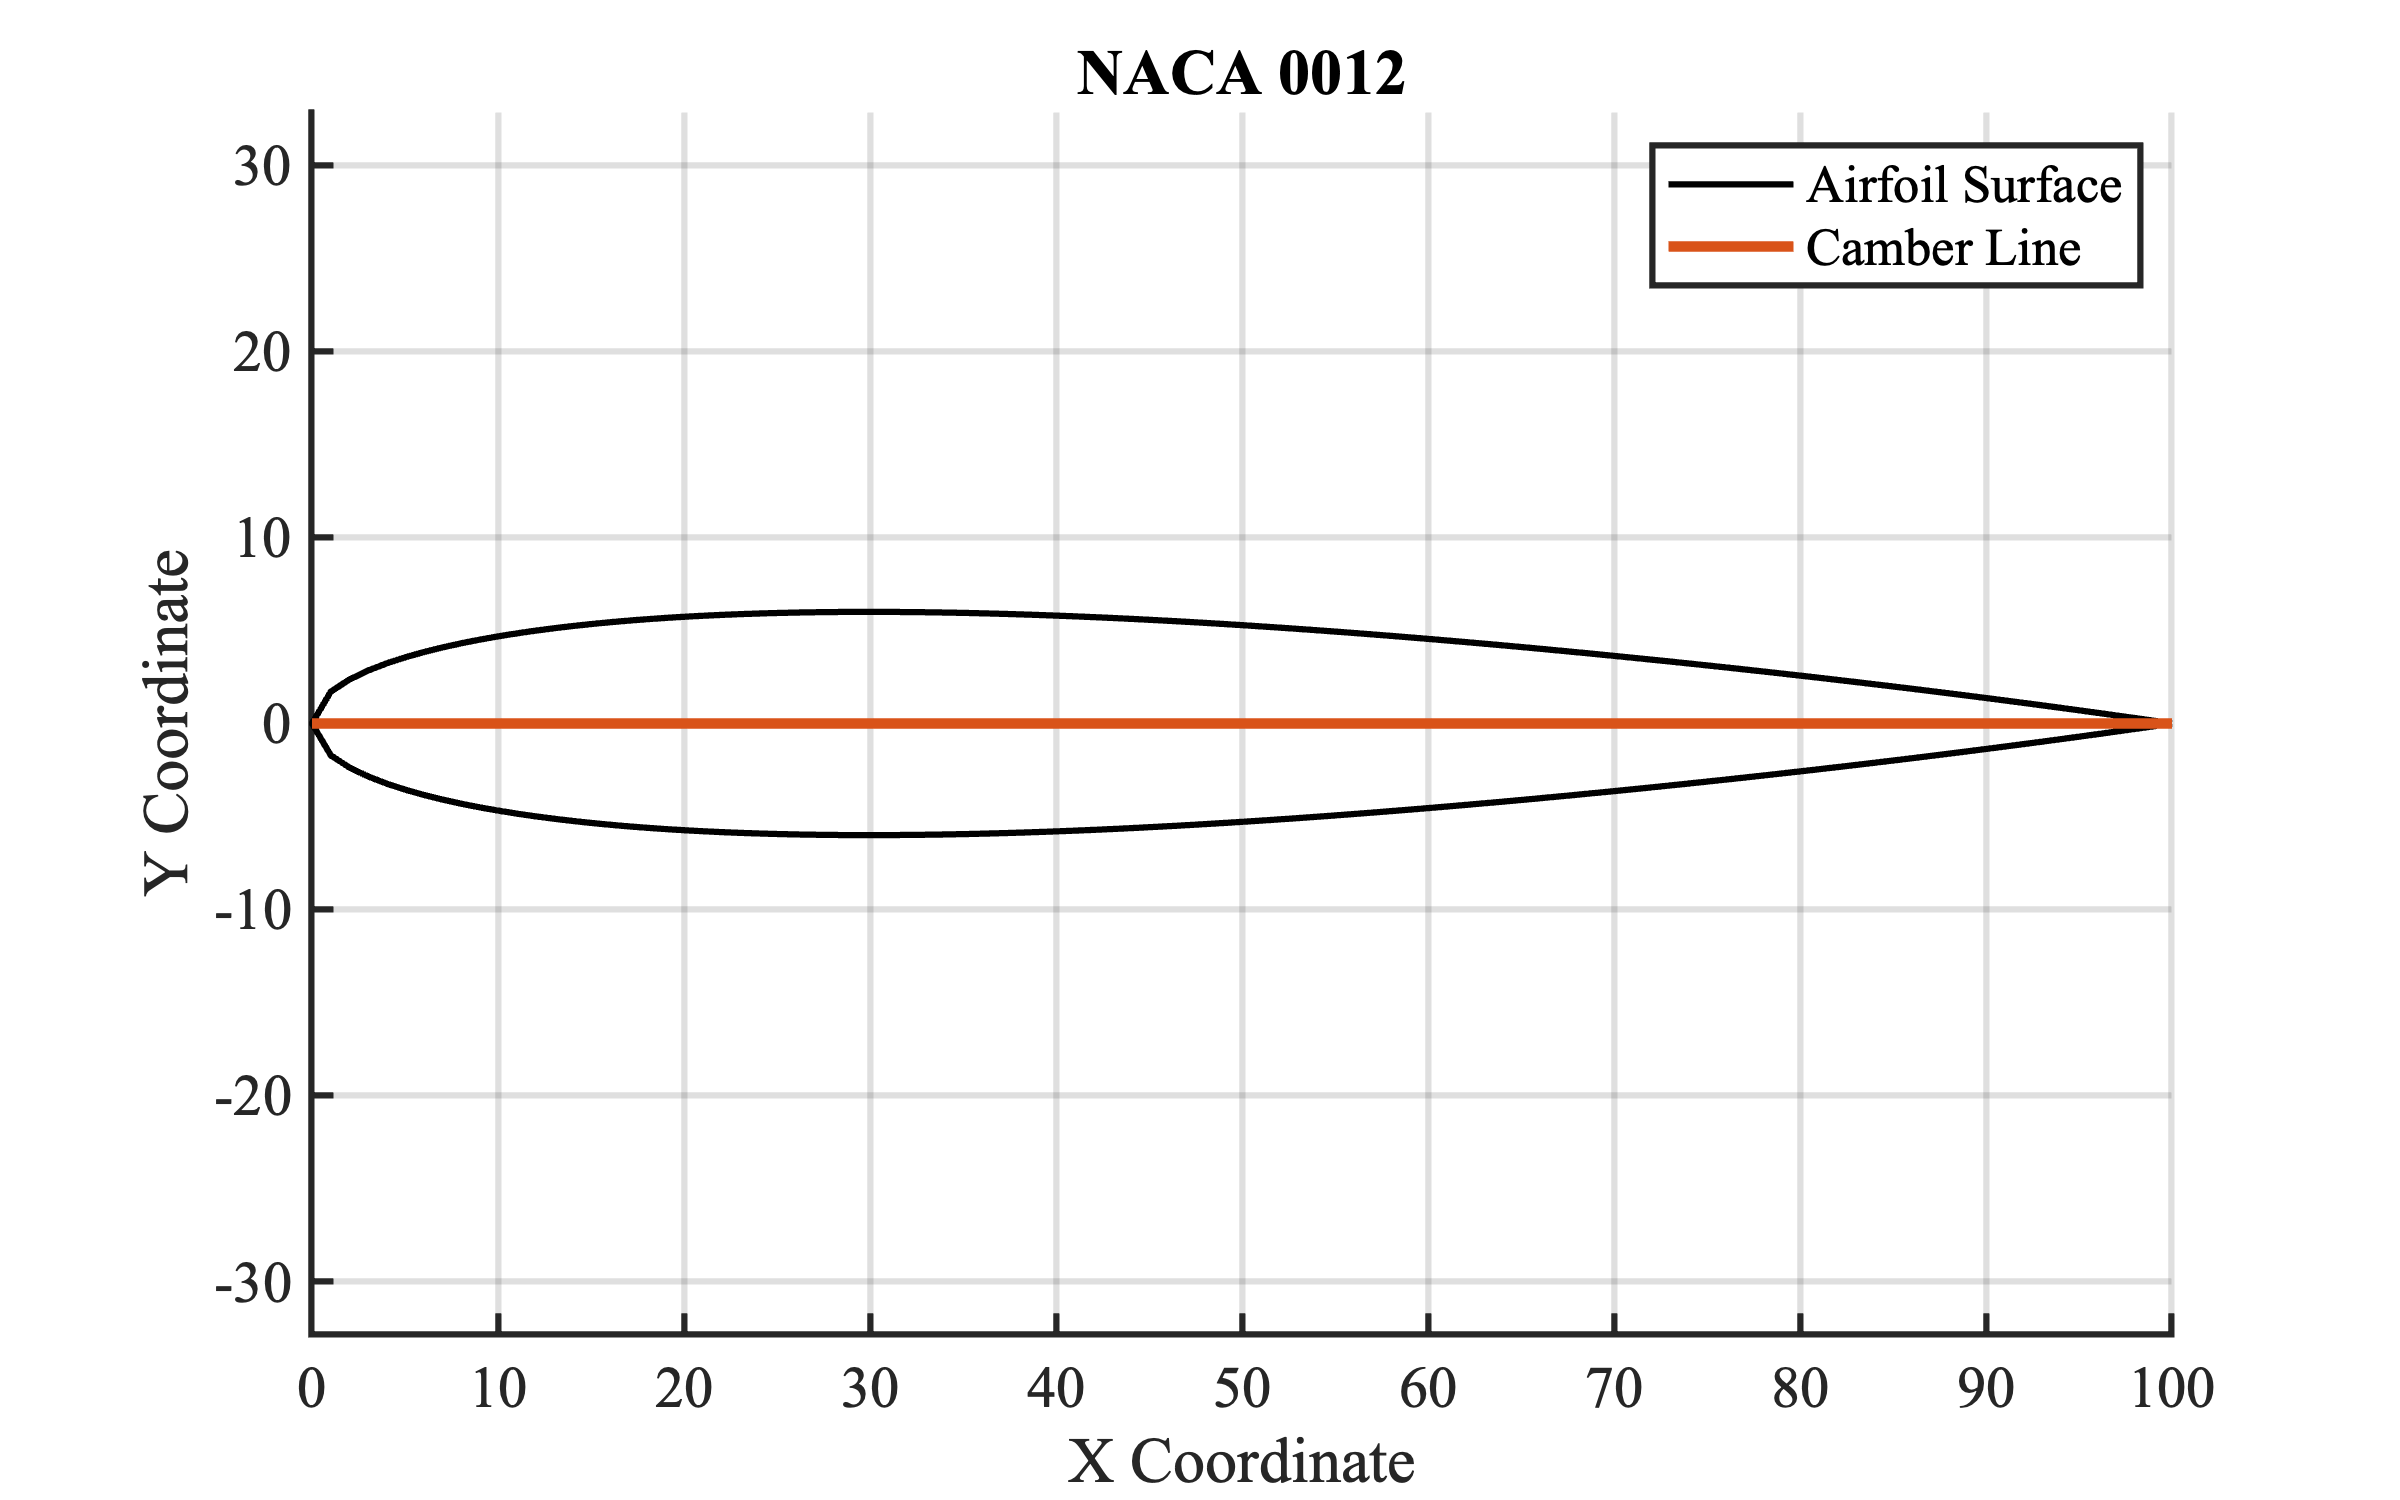
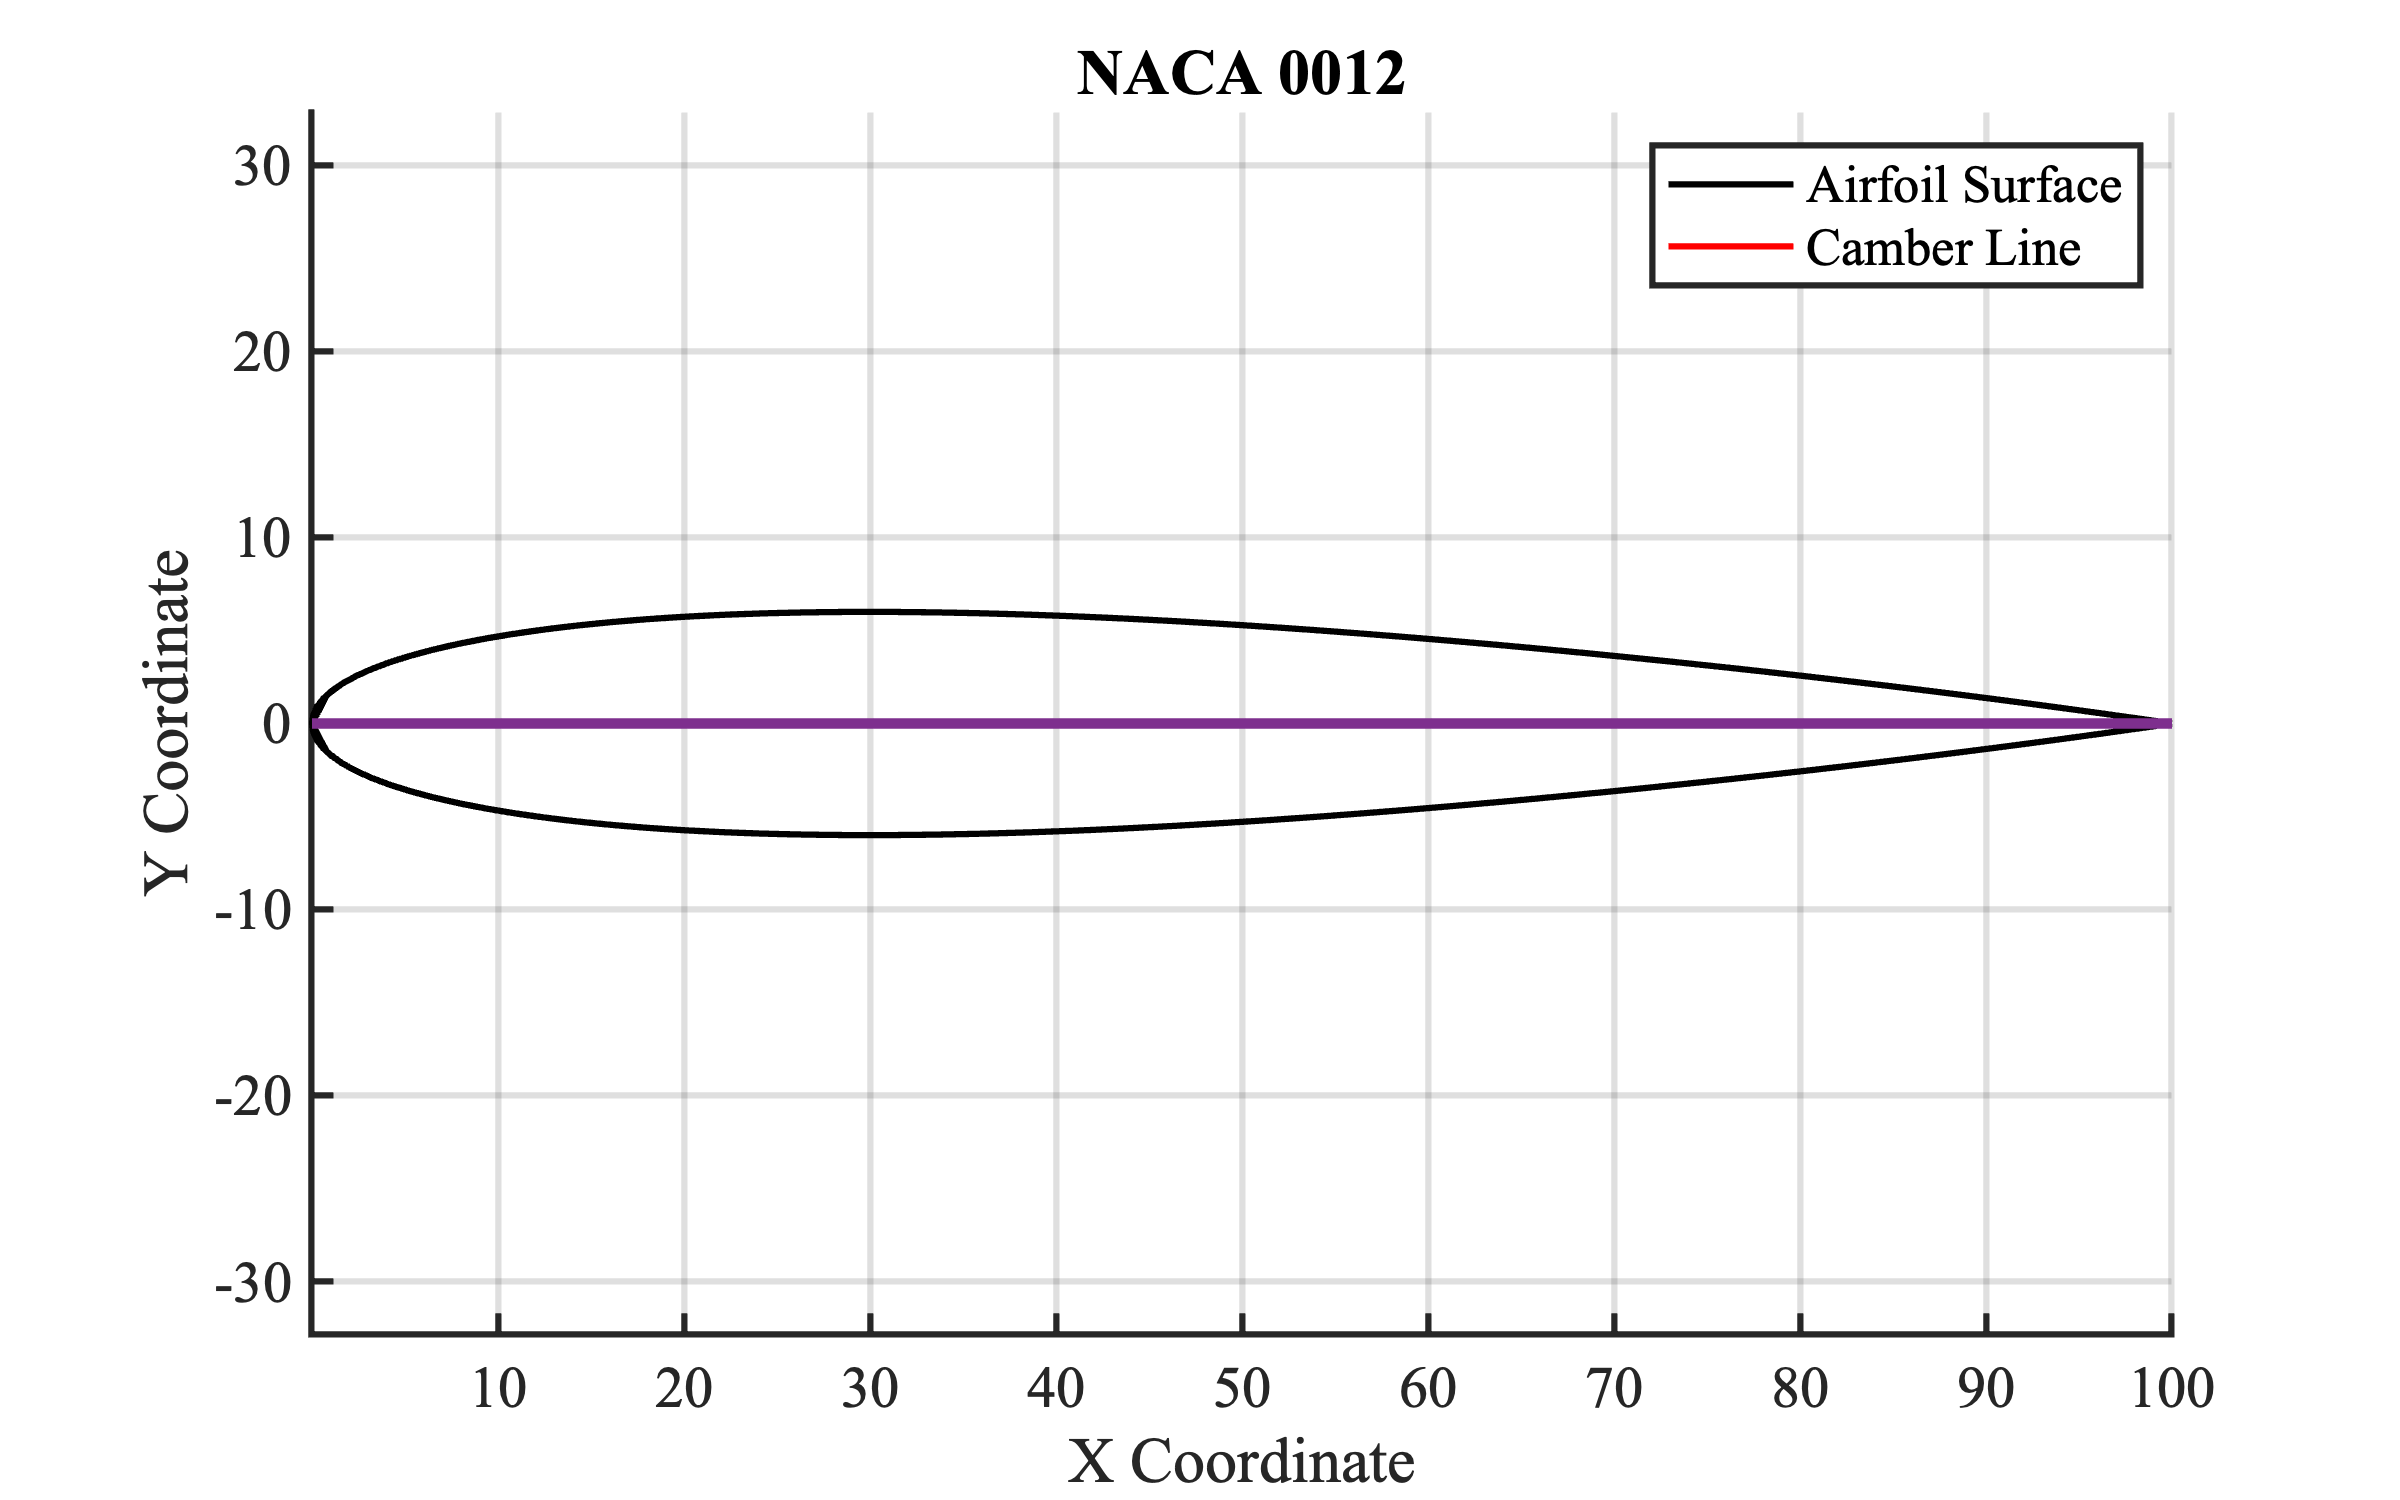
.

Changed region(s): [[0.125, 0.46, 0.9062, 0.4907], [0.6875, 0.1533, 0.75, 0.184]]

diff --git a/P1T3.m b/P1T3.m
@@ -4,9 +4,9 @@ close all
 
 %% Inputs
 %NacaStrings = ["NACA 0006","NACA 0012","NACA 0018"];
-%NacaStrings = ["NACA 0012","NACA 2412","NACA 4412"];
+NacaStrings = ["NACA 0012","NACA 2412","NACA 4412"];
 %NacaStrings = ["NACA 0018","NACA 2418"];
-numberPannels=100;
+numberPannels=125;
 c=100;
 alphas=linspace(-6,12,100); %degrees
 
@@ -69,7 +69,7 @@ title('Cl vs Angle Of Attack Vortex Panel Method')
 xlabel('\alpha (^{o})')
 ylabel('Cl')
 legend(NacaStrings,'Location','north')
-print('CLAOAVortexPannel','-dpng','-r300');
+print('CLAOAVortexPannelP1T3D1','-dpng','-r300');
 a0
 a0thin
 alphaL0
@@ -85,6 +85,62 @@ t = str2double(currentnaca(8:end)) / c;
 end
 
 function [XB, YB] = Locations(m,p,t,c,currentnaca,r,lin,ifplot)
+% Cosine spacing along the chord
+theta = linspace(0, pi, lin/2);
+x = c/2 * (1 - cos(theta));  
+
+% Calculate thickness distribution
+yt = (t / 0.2) * c *(0.2969 *sqrt(x/c) - .1260*(x/c) - .3515*(x/c).^2 + .2843*(x/c).^3 - .1036*(x/c).^4); 
+
+% Preallocate camber line and angles
+yc = zeros(1,length(x));
+xzi = zeros(1,length(x));
+
+% Calculate camber line and surface angles
+for i = 1:length(x) 
+    if x(i) < (p*c)
+        yc(i) = m*x(i)*(2*p-(x(i)/c))./p^2;
+        xzi(i) = atan((m*(2*p - x(i)/c))./p.^2 - (m*x(i))./(c*p.^2));
+    else
+        yc(i) = m*(c-x(i))*(1+(x(i)/c)-(2*p))./(1-p)^2;
+        xzi(i) = atan((m*(c - x(i)))./(c*(p - 1).^2) - (m*(x(i)./c - 2*p + 1))./(p - 1)^2);
+    end
+end
+
+% Calculate upper and lower surface positions
+xu = x - yt.*sin(xzi);
+xl = x + yt.*sin(xzi);
+yu = yc + yt.*cos(xzi);
+yl = yc - yt.*cos(xzi);
+
+% Remove first point from upper surface to avoid duplication at trailing edge
+xu2 = xu(2:end);
+yu2 = yu(2:end);
+
+% Flip lower surface to go from trailing edge to leading edge
+xl2 = fliplr(xl);
+yl2 = fliplr(yl);
+
+XB = [xl2, xu2]; 
+YB = [yl2, yu2];
+
+% Plotting
+str = currentnaca;
+if ifplot == 1
+    figure(r)
+    hold on;
+    plot(XB,YB,'LineWidth',1.5,'Color','black');
+    plot(x,yc,'LineWidth',1.5,'Color','red')
+    axis equal;
+    xlabel('X Coordinate');
+    ylabel('Y Coordinate');
+    title(currentnaca)
+    grid on;
+    legend("Airfoil Surface","Camber Line")
+    print(str,'-dpng','-r300');
+    hold off;
+end
+
 
 
 x = linspace(0,c,lin);
